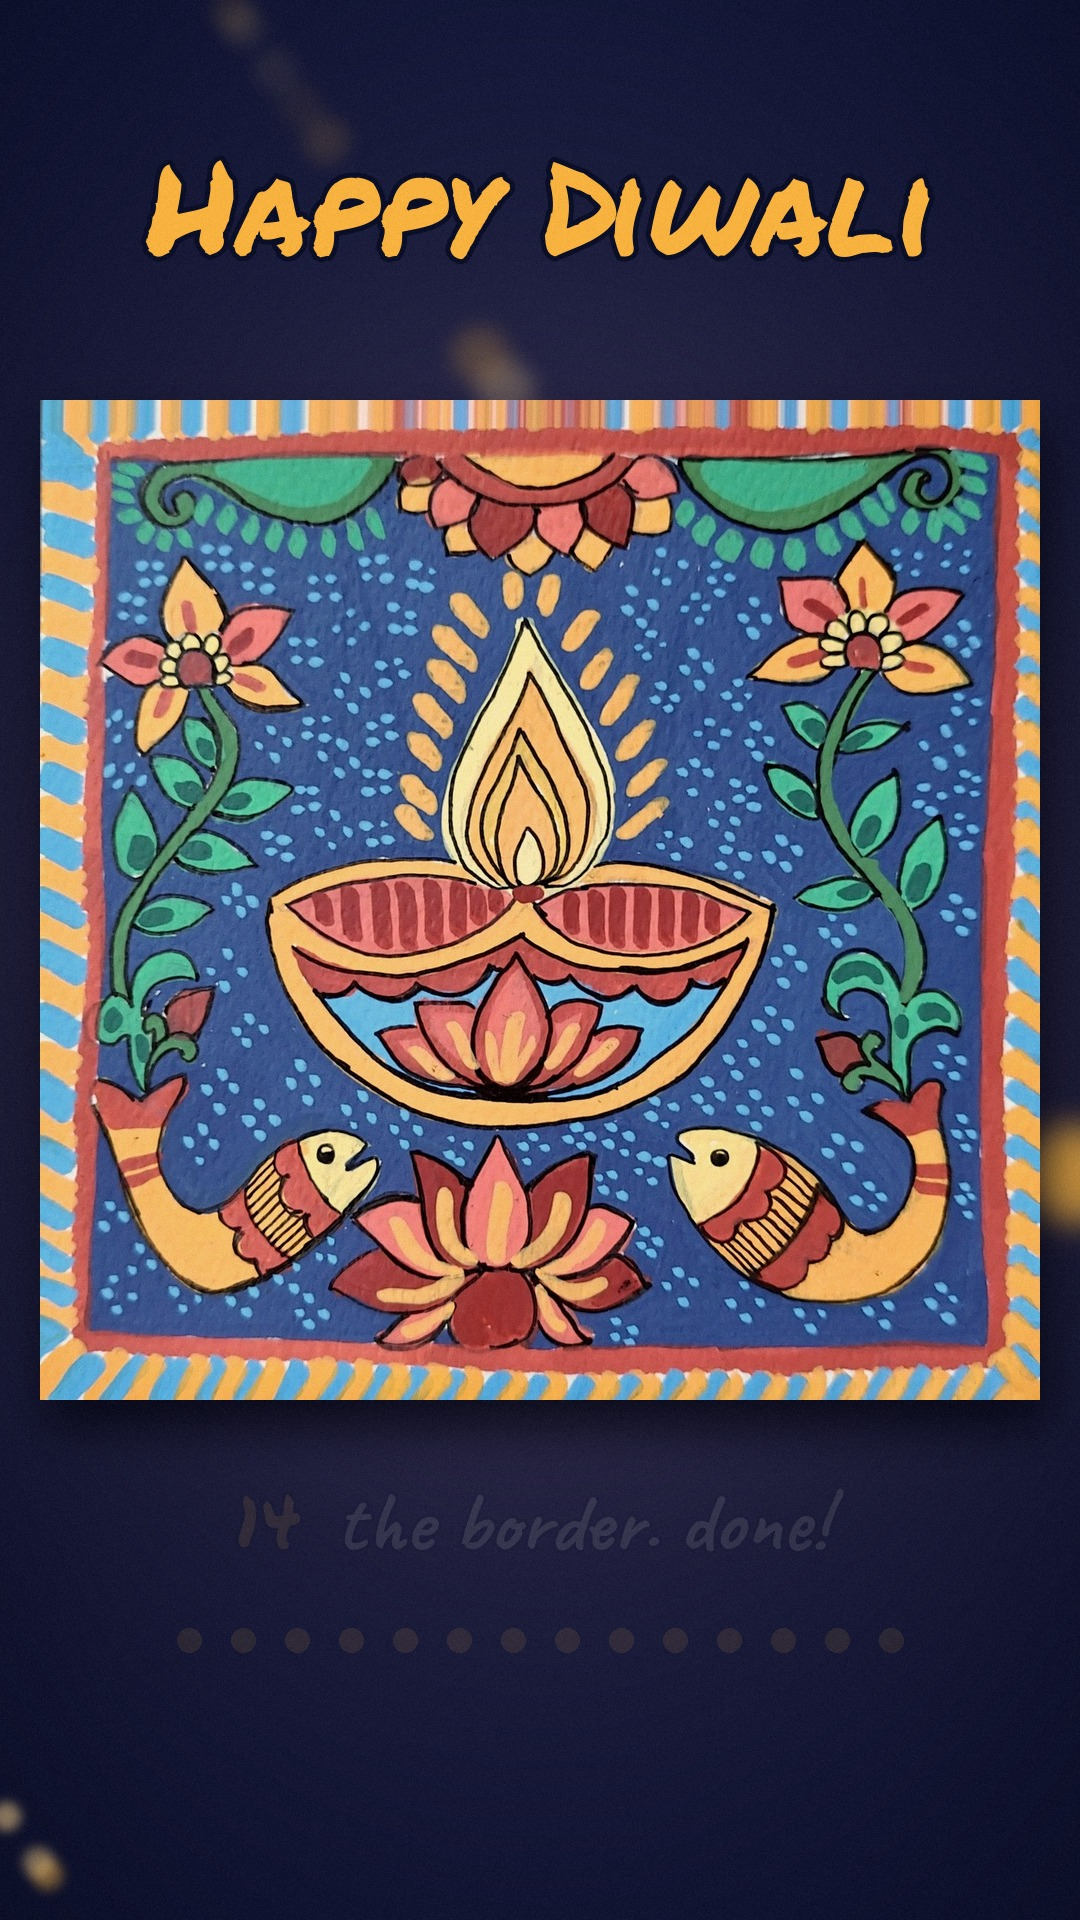
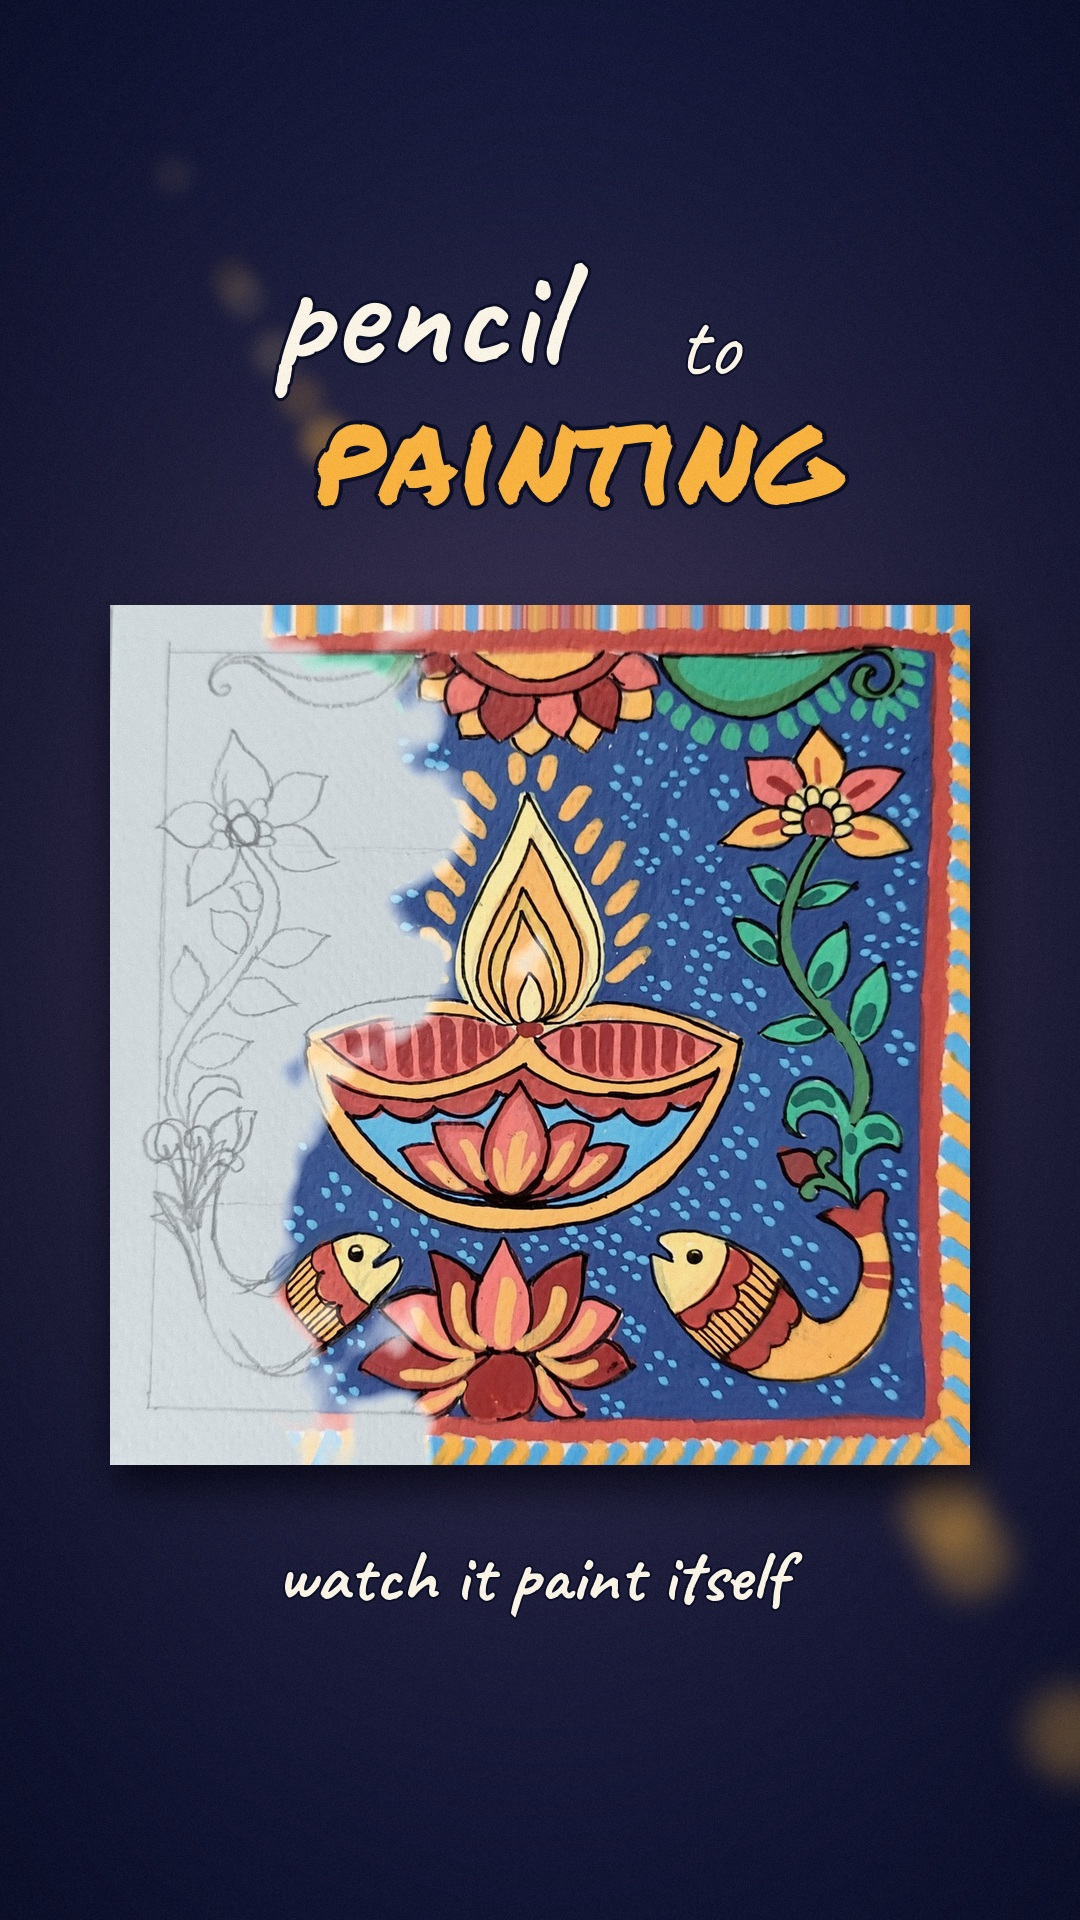
Add grid-safe split-card cover for the pencil-to-painting transition reel
Claude-Session: https://claude.ai/code/session_01RrZXxCa3zHm2gX94uXYgjx

diff --git a/make_transition.py b/make_transition.py
@@ -11,6 +11,7 @@ card appears to paint itself in place.
    spreads across the card like brush strokes. It ends on a before/after slider.
 
 Usage:  python3 make_transition.py                 # renders output/diya_transition.mp4
+        python3 make_transition.py --cover         # just the reel cover (+ grid-crop preview)
         python3 make_transition.py --align         # redo the alignment
         python3 make_transition.py --preview 3 12  # stills -> output/preview/
 """
@@ -312,12 +313,51 @@ def render_frame(frame):
     return render(frame / FPS).tobytes()
 
 
+def render_cover():
+    """Reel cover: one card, half pencil sketch and half finished painting, split by the same
+    wet-paint edge the video uses. Everything sits inside the middle 3:4 area (y 240..1680)
+    that the profile grid shows."""
+    canvas = Image.fromarray(backdrop().astype(np.uint8)).convert("RGBA")
+    draw_bokeh(canvas, 3.0, 1.2)
+    tx = texts()
+    paste_center(canvas, tx["t1"], W / 2 - 110, 330)
+    paste_center(canvas, tx["arrow"], W / 2 + 170, 350)
+    paste_center(canvas, tx["t2"], W / 2 + 40, 465)
+
+    # left-to-right sweep (sketch on the left, painting on the right, flame painted), roughened with noise
+    yy, xx = np.mgrid[0:CARD, 0:CARD].astype(np.float32) / CARD
+    f = 0.66 * (xx + 0.12 * yy) + 0.34 * fbm(CARD, 4242)
+    f = (f - f.min()) / (f.max() - f.min())
+    m = np.clip((f - 0.31) / 0.035, 0, 1)[..., None]
+    card = stage(0) * (1 - m) + stage(N - 1) * m
+    card += ((m * (1 - m))[..., 0] * 4 * 26)[..., None]          # bright wet edge on the seam
+    size = 860
+    cy = 1035
+    cimg = Image.fromarray(np.clip(card, 0, 255).astype(np.uint8)).resize((size, size), Image.LANCZOS)
+    frame = card_frame()
+    frame = frame.resize((int(frame.width * size / CARD), int(frame.height * size / CARD)), Image.LANCZOS)
+    paste_center(canvas, frame, W / 2, cy + 7)
+    canvas.paste(cimg, (W // 2 - size // 2, cy - size // 2))
+
+    tag = text_img("watch it paint itself", caveat(74), CREAM, 2, INDIGO_DEEP)
+    paste_center(canvas, tag, W / 2, 1585)
+    arr = np.asarray(canvas.convert("RGB")).astype(np.float32)
+    arr += np.random.default_rng(4).normal(0, 2.5, (H, W, 1)).astype(np.float32)
+    return Image.fromarray(np.clip(arr, 0, 255).astype(np.uint8))
+
+
 def main():
     if "--align" in sys.argv or not os.path.exists(os.path.join(ALIGNED, f"aligned{N:02d}.jpg")):
         align()
         if "--align" in sys.argv:
             return
     os.makedirs(OUT, exist_ok=True)
+    if "--cover" in sys.argv:
+        cov = render_cover()
+        cov.save(os.path.join(OUT, "diya_transition_cover.jpg"), quality=94)
+        cov.crop((0, 240, W, 1680)).save(os.path.join(OUT, "diya_transition_cover_grid_preview.jpg"), quality=90)
+        print("wrote", os.path.join(OUT, "diya_transition_cover.jpg"))
+        return
     if "--preview" in sys.argv:
         pdir = os.path.join(OUT, "preview")
         os.makedirs(pdir, exist_ok=True)
@@ -340,7 +380,7 @@ def main():
                 print(f"frame {i}/{n}", flush=True)
     proc.stdin.close()
     proc.wait()
-    Image.fromarray(render(T_DONE + 1.4)).save(os.path.join(OUT, "diya_transition_cover.jpg"), quality=92)
+    render_cover().save(os.path.join(OUT, "diya_transition_cover.jpg"), quality=94)
     print("wrote", out, f"({DURATION:.1f} s)")
 
 

diff --git a/README.md b/README.md
@@ -43,7 +43,7 @@ python3 make_diya_reel.py --preview 2 9 26  # stills at the given seconds -> out
 
 ## Diwali diya card: pencil-to-painting transition
 
-`output/diya_transition.mp4` (1080×1920, 33 s, 30 fps). The 14 progress photos are aligned on top of each other, so the card stays still and appears to paint itself, from the pencil sketch to the finished border. Each new layer spreads across the card like wet paint. The reel ends with a before/after slider and "Happy Diwali". Cover: `output/diya_transition_cover.jpg`.
+`output/diya_transition.mp4` (1080×1920, 33 s, 30 fps). The 14 progress photos are aligned on top of each other, so the card stays still and appears to paint itself, from the pencil sketch to the finished border. Each new layer spreads across the card like wet paint. The reel ends with a before/after slider and "Happy Diwali". Cover: `output/diya_transition_cover.jpg`. It's a designed cover that shows one card half in pencil and half painted, split by the same wet-paint edge as the video. It fits inside the middle 3:4 area that the profile grid shows, and `output/diya_transition_cover_grid_preview.jpg` shows that crop. `python3 make_transition.py --cover` re-makes just the cover.
 
 - `make_transition.py`: the renderer.
 - `artworks/diya_aligned/`: the aligned, colour-matched frames. These are already committed, so re-rendering doesn't need OpenCV.
